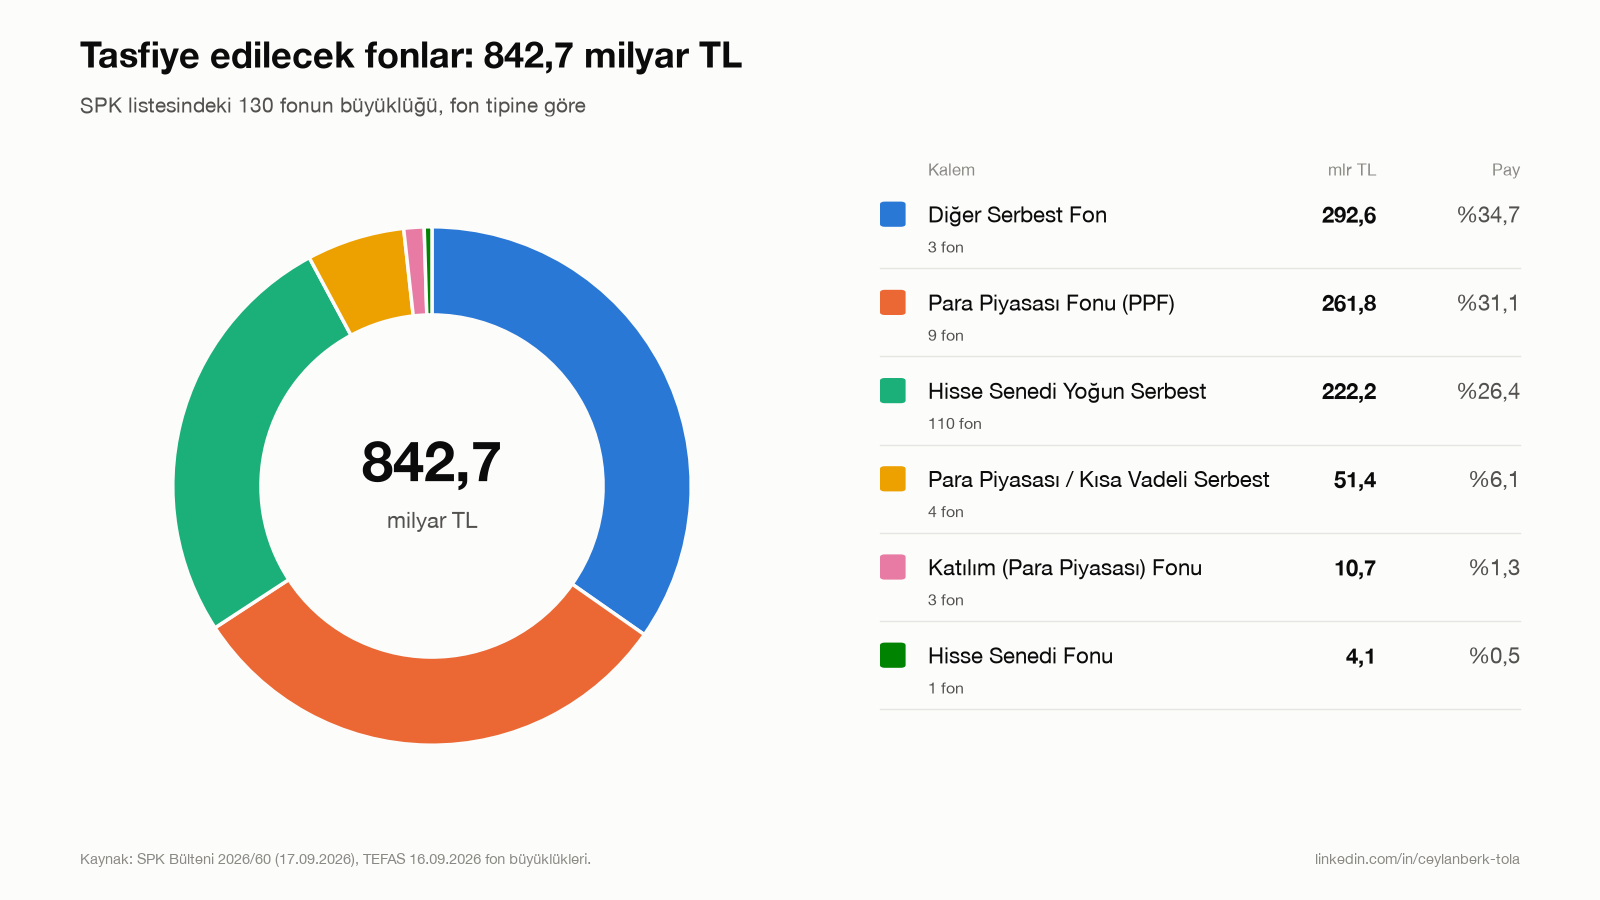
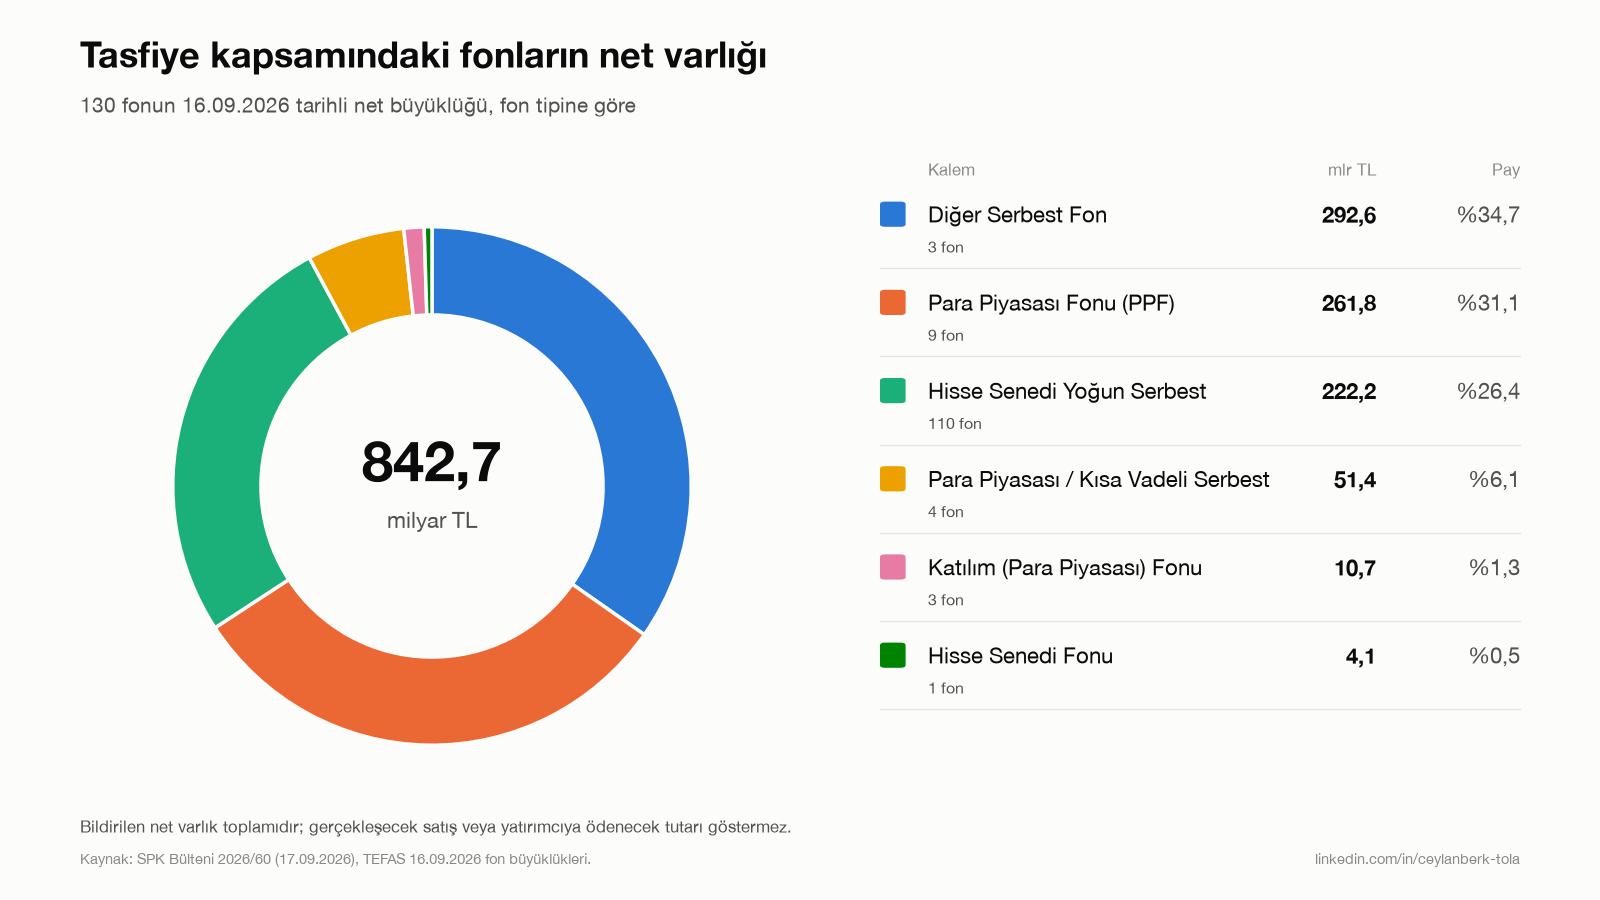
Scope notes

Changed region(s): [[0.0312, 0.0311, 0.5, 0.1244], [0.0625, 0.9022, 0.5, 0.9333]]

diff --git a/tasfiye/report.py b/tasfiye/report.py
@@ -46,25 +46,32 @@ def bolum():
     bilinmeyen = fonlar_arasi.bilinmeyen()
     ilk_yayin, son_yayin = fonlar_arasi.yayin_araligi()
     parts = [
-        grafik(1, "1_fon_tipine_gore_tasfiye.png", "Fon tipine göre tasfiye tutarı"),
+        grafik(1, "1_fon_tipine_gore_tasfiye.png", "Fon tipine göre net fon büyüklüğü"),
         grup_tablosu("ozet_fon_tipi.csv", "Fon tipi"),
         "TEFAS şemsiye fon türüne göre:\n\n" + grup_tablosu("ozet_semsiye_fon_turu.csv", "Şemsiye fon türü"),
-        grafik(2, "2_varlik_turune_gore_tasfiye.png", "Varlık türüne göre tasfiye tutarı"),
-        "Fon büyüklüğü × TEFAS portföy dağılım oranı. Negatif tutarlar kaldıraçlı fonların repo ve para piyasası borçlarıdır; "
-        "net toplam fon büyüklüğüne eşittir.\n\n"
-        + tablo(["Varlık", "Brüt (mlr TL)", "Borç (mlr TL)", "Net (mlr TL)", "Net pay"],
+        grafik(2, "2_varlik_turune_gore_tasfiye.png", "Varlık türüne göre yaklaşık tutarlar"),
+        f"Tutarlar, TEFAS'ın {config.VERI_TARIHI} tarihli net fon büyüklüğü × aynı tarihli portföy dağılım oranıyla "
+        "hesaplanan yaklaşık TL karşılıklarıdır. Pozitif sütunu varlık sınıflarındaki pozitif kalemleri, negatif sütunu "
+        "dağılımdaki repo ve para piyasası borçlarını gösterir. Net toplam fon büyüklüğüne eşittir. "
+        "Bu hesap tam bir brüt bilanço, toplam kaldıraç riski veya gerçekleşecek satış tutarı değildir. "
+        "Grafikteki paylar pozitif toplam üzerinden, tablodaki net paylar net toplam üzerinden hesaplanır.\n\n"
+        + tablo(["Varlık", "Pozitif (mlr TL)", "Negatif (mlr TL)", "Net (mlr TL)", "Net pay"],
                 [[r["varlik"], mlr(r["brut_pozitif_tl"]), mlr(r["negatif_tl"]) if float(r["negatif_tl"]) else "",
                   mlr(r["net_tl"]), yuzde(r["net_tl"], net_toplam)] for r in varlik], "lrrrr"),
-        grafik(3, "3_portfoy_sirketine_gore_tasfiye.png", "Portföy şirketine göre tasfiye tutarı"),
+        grafik(3, "3_portfoy_sirketine_gore_tasfiye.png", "Portföy şirketine göre net fon büyüklüğü"),
         grup_tablosu("ozet_sirket.csv", "Portföy şirketi"),
-        "### Fonların listedeki diğer fonlara yatırımı\n\n"
-        "Toplamlardan düşülmemiştir; tutan ve tutulan fonun büyüklüğünde ayrı ayrı yer alır. Tutarlar, tutan fonun KAP'taki "
-        f"en güncel portföy dağılım raporundandır. KAP'ta güncel raporu bulunmayan ({bilinmeyen['rapor_yok'][0]} fon) veya rapor "
-        f"yayımlamaktan muaf olan ({bilinmeyen['muaf'][0]} fon) fonlar için bu bilgi bulunmamaktadır. "
-        f"Fon büyüklükleri TEFAS'ın {config.VERI_TARIHI} verisidir; KAP raporları ise {ilk_yayin}–{son_yayin} tarihleri arasında "
-        "yayımlandığı için tutarlar aynı güne ait değildir. "
+        "### Fonların listedeki diğer fonlara yatırımı (KAP, yaklaşık)\n\n"
+        "Tutarlar, tutan fonun eldeki en güncel KAP raporundaki oran × rapor net varlığı hesabıyla üretilmiştir. "
+        f"Ana hesaplamanın kaynağı TEFAS'ın {config.VERI_TARIHI} verisidir; KAP raporları ise eski dönemlere aittir ve "
+        f"{ilk_yayin}–{son_yayin} tarihleri arasında yayımlanmıştır. Bu nedenle aşağıdaki tutarlar "
+        f"**{config.VERI_TARIHI} için kesin veya bağlayıcı veri değil, fonlar arası yatırımı gösteren yaklaşık bir göstergedir.** "
+        "Tutan ve tutulan fonda mükerrer sayılabilecek bu yatırımlar toplamlardan düşülmemiştir. "
+        f"KAP raporu bulunamayan ({bilinmeyen['rapor_yok'][0]} fon) veya muafiyet bildirimi olan ({bilinmeyen['muaf'][0]} fon) "
+        "fonlar için bu bilgi bulunmamaktadır.\n\n"
+        "Tablodaki gün farkı yalnızca TEFAS veri tarihi ile KAP yayın tarihi arasındadır. "
+        "**Yayın tarihi portföyün değerleme tarihi değildir; 0 gün fark, pozisyonların aynı güne ait olduğunu göstermez.** "
         "50 mn TL altındaki kalemler için `fonlar_arasi_yatirim.csv` dosyasına bakın.\n\n"
-        + tablo(["Tutan fon", "Tutulan fon", "Tutar (mlr TL)", "KAP raporu (yayın tarihi)", f"TEFAS {config.VERI_TARIHI} ile fark"],
+        + tablo(["Tutan fon", "Tutulan fon", "Yaklaşık tutar (mlr TL)", "KAP raporu (yayın tarihi)", "TEFAS tarihi − KAP yayın tarihi"],
                 [[r["tutan_fon"], r["tutulan_fon"], f"{float(r['tutar_tl']) / 1e9:,.2f}".replace(".", ","),
                   f"{r['kap_rapor_donemi']} ({r['kap_yayin_tarihi']})", f"{r['tefas_verisiyle_gun_farki']} gün"]
                  for r in read_csv(fonlar_arasi.CIKTI) if float(r["tutar_tl"]) >= 5e7], "llrlr"),
@@ -84,7 +91,7 @@ def bolum():
             ["[`ozet_semsiye_fon_turu.csv`](data/processed/ozet_semsiye_fon_turu.csv)", "Şemsiye fon türüne göre özet"],
             ["[`ozet_sirket.csv`](data/processed/ozet_sirket.csv)", "Portföy şirketine göre özet"],
             ["[`ozet_varlik_dagilimi.csv`](data/processed/ozet_varlik_dagilimi.csv)", "Varlık türüne göre brüt, borç ve net TL"],
-            ["[`fonlar_arasi_yatirim.csv`](data/processed/fonlar_arasi_yatirim.csv)", "Fonların listedeki diğer fonlara yatırımı (son KAP raporları)"],
+            ["[`fonlar_arasi_yatirim.csv`](data/processed/fonlar_arasi_yatirim.csv)", "Fonların listedeki diğer fonlara yatırımı (eski dönem KAP raporlarından yaklaşık gösterge)"],
             ["[`kap_fon_paylari.csv`](data/raw/kap_fon_paylari.csv)", "KAP raporlarından çıkarılan ham fon payı oranları ve rapor durumu"],
         ], "ll"),
     ]

diff --git a/tasfiye/plots.py b/tasfiye/plots.py
@@ -1,4 +1,4 @@
-"""Üç donut grafik: fon tipi, varlık türü ve portföy şirketine göre tasfiye tutarı."""
+"""Tasfiye kapsamındaki fonların net büyüklüğü ve yaklaşık varlık dağılımı."""
 from collections import defaultdict
 
 import matplotlib
@@ -100,28 +100,28 @@ def main():
     ilk_yayin, son_yayin = fonlar_arasi.yayin_araligi()
 
     donut([(k, v, f"{n} fon") for k, (v, n) in grupla(detay, "fon_tipi")],
-          f"Tasfiye edilecek fonlar: {mlr(sum(r['portfoy_buyuklugu_tl'] for r in detay))} milyar TL",
-          f"SPK listesindeki {len(detay)} fonun büyüklüğü, fon tipine göre",
-          "1_fon_tipine_gore_tasfiye.png")
+          "Tasfiye kapsamındaki fonların net varlığı",
+          f"{len(detay)} fonun {config.VERI_TARIHI} tarihli net büyüklüğü, fon tipine göre",
+          "1_fon_tipine_gore_tasfiye.png",
+          footnote="Bildirilen net varlık toplamıdır; gerçekleşecek satış veya yatırımcıya ödenecek tutarı göstermez.")
 
     pos, neg, kaldiracli = varlik_tutarlari(detay, load_tefas_dagilim())
     brut, borc = sum(pos.values()), sum(neg.values())
     varliklar = [(g, sum(pos[k] for k in kodlar), VARLIK_ACIKLAMALARI.get(g, "")) for g, kodlar in VARLIK_GRUPLARI.items()]
     donut(sorted(varliklar, key=lambda t: -t[1]),
-          "Tasfiye edilecek varlıklar: türe göre",
-          f"Fon büyüklüğü × TEFAS portföy dağılım oranı, brüt {mlr(brut)} mlr TL varlık*",
+          "Tasfiye kapsamındaki fonların varlık dağılımı",
+          f"TEFAS {config.VERI_TARIHI}: net fon büyüklüğü × dağılım oranı, yaklaşık TL karşılıkları*",
           "2_varlik_turune_gore_tasfiye.png",
-          footnote=f"* Brüt tutardır: kaldıraçlı {len(kaldiracli)} fonun {mlr(-borc)} mlr TL repo ve para piyasası borcu "
-                   f"düşülmemiştir. Borç düşüldüğünde net varlık {mlr(brut + borc)} mlr TL (toplam fon büyüklüğü).\n"
-                   f"  Yatırım fonu katılma paylarının {mlr(ic_yatirim)} mlr TL'si, son KAP raporlarına göre listedeki diğer fonların paylarıdır "
-                   f"(raporların yayın tarihi {ilk_yayin[:5]}–{son_yayin}).",
-          source=f"Kaynak: SPK Bülteni 2026/60, TEFAS {config.VERI_TARIHI}, KAP portföy dağılım raporları. "
-                 "Hesaplama: fon büyüklüğü × TEFAS portföy dağılım oranı.")
+          footnote=f"* Pozitif kalemler {mlr(brut)} mlr TL; {len(kaldiracli)} fondaki {mlr(-borc)} mlr TL repo ve para piyasası borcu sonrası net {mlr(brut + borc)} mlr TL.\n"
+                   f"  Fonlar arası yatırım yaklaşık {mlr(ic_yatirim)} mlr TL (eski dönem KAP raporları; yayın {ilk_yayin[:5]}–{son_yayin}).\n"
+                   "  KAP tutarı aynı tarihli kesin veri değildir ve toplamdan düşülmemiştir. Dağılım, gerçekleşecek satış tutarını göstermez.",
+          source=f"Kaynak: SPK Bülteni 2026/60, TEFAS {config.VERI_TARIHI}; fonlar arası yatırım için KAP raporları.")
 
     donut([(f"{k} Portföy", v, f"{n} fon") for k, (v, n) in grupla(detay, "sirket")],
-          "Tasfiye tutarı: portföy şirketine göre",
-          "SPK listesindeki fonların büyüklüğü, kurucu portföy yönetim şirketine göre",
-          "3_portfoy_sirketine_gore_tasfiye.png")
+          "Net fon büyüklüğü: portföy şirketine göre",
+          f"Tasfiye kapsamındaki fonların {config.VERI_TARIHI} tarihli net büyüklükleri",
+          "3_portfoy_sirketine_gore_tasfiye.png",
+          footnote="Bildirilen net varlık toplamıdır; gerçekleşecek satış veya yatırımcıya ödenecek tutarı göstermez.")
 
 
 if __name__ == "__main__":

diff --git a/tasfiye/fonlar_arasi.py b/tasfiye/fonlar_arasi.py
@@ -1,7 +1,8 @@
 """Listedeki fonların birbirine yatırımı (bilgi amaçlı; toplamlardan düşülmez).
 
 Bir fon (ör. TLY) listedeki başka bir fonun (HMV) payını tutuyorsa o tutar iki fonun büyüklüğünde de yer alır.
-Tutarlar, tutan fonun KAP'taki en güncel portföy dağılım raporundaki değerlerdir (oran × rapor net varlığı).
+Tutarlar, eski dönem KAP raporlarındaki oran × rapor net varlığı hesabıyla elde edilen yaklaşık göstergelerdir.
+TEFAS veri tarihi için kesin tutarları göstermez; yayın tarihi ile portföyün değerleme tarihi farklı olabilir.
 """
 from collections import defaultdict
 from datetime import datetime
@@ -13,7 +14,7 @@ CIKTI = config.PROCESSED / "fonlar_arasi_yatirim.csv"
 
 
 def yatirimlar():
-    """Rapor yayımlayan fonların listedeki fonlara yatırımları, rapordaki TL tutarıyla, büyükten küçüğe."""
+    """KAP oranı × rapor net varlığından hesaplanan yaklaşık yatırımlar, büyükten küçüğe."""
     return sorted(({**r, "tutar_tl": float(r["oran"]) * float(r["rapor_net_varlik_tl"])}
                    for r in read_csv(config.KAP_FON_PAYLARI) if r["durum"] == "rapor" and r["tutulan_fon_kodu"]),
                   key=lambda r: -r["tutar_tl"])
@@ -54,7 +55,7 @@ def main():
                       "kap_rapor_donemi", "kap_yayin_tarihi", "tefas_verisiyle_gun_farki", "kap_bildirim_no"],
               [[r["fon_kodu"], r["tutulan_fon_kodu"], round(r["tutar_tl"], 2), r["rapor_net_varlik_tl"], r["oran"],
                 r["rapor_donemi"], r["yayin_tarihi"], gun_farki(r["yayin_tarihi"]), r["kap_bildirim_no"]] for r in rows])
-    print(f"Listedeki fonlara yatırım (son KAP raporları): {toplam() / 1e9:,.2f} mlr TL, {len(rows)} çift")
+    print(f"Listedeki fonlara yaklaşık yatırım (eski dönem KAP raporları): {toplam() / 1e9:,.2f} mlr TL, {len(rows)} çift")
     for durum, (adet, tl) in bilinmeyen().items():
         print(f"  içeriği bilinmeyen ({durum}): {adet} fon, {tl / 1e9:,.2f} mlr TL fon payı")
 

diff --git a/tasfiye/allocation.py b/tasfiye/allocation.py
@@ -1,4 +1,4 @@
-"""TEFAS portföy dağılımı × fon büyüklüğü: tasfiye edilecek varlıkların TL karşılığı."""
+"""TEFAS portföy dağılımı × net fon büyüklüğü: varlıkların yaklaşık TL karşılığı."""
 from collections import defaultdict
 
 from . import config
@@ -45,8 +45,9 @@ def main():
                 round(100 * (pos[k] + neg[k]) / net_toplam, 2)] for k in ozet])
 
     print(f"Dağılım verisi olan fon: {len(dagilim)} / {len(detay)}")
-    print(f"Brüt varlık: {sum(pos.values()) / 1e9:,.2f} mlr TL, borç: {sum(neg.values()) / 1e9:,.2f} mlr TL "
-          f"({len(kaldiracli)} kaldıraçlı fon), net: {net_toplam / 1e9:,.2f} mlr TL")
+    print(f"Dağılımdan hesaplanan yaklaşık pozitif tutar: {sum(pos.values()) / 1e9:,.2f} mlr TL, "
+          f"repo ve para piyasası borcu: {sum(neg.values()) / 1e9:,.2f} mlr TL "
+          f"({len(kaldiracli)} fon), net: {net_toplam / 1e9:,.2f} mlr TL")
 
 
 if __name__ == "__main__":

diff --git a/tasfiye/dataset.py b/tasfiye/dataset.py
@@ -58,7 +58,7 @@ def main():
                   [key, "fon_sayisi", "portfoy_buyuklugu_tl", "pay_yuzde", "yatirimci_sayisi"],
                   summarize(rows, key, total))
 
-    print(f"{len(rows)} fon, toplam tasfiye büyüklüğü: {total / 1e9:,.2f} mlr TL")
+    print(f"{len(rows)} fon, {config.VERI_TARIHI} tarihli toplam net fon varlığı: {total / 1e9:,.2f} mlr TL")
 
 
 if __name__ == "__main__":

diff --git a/README.md b/README.md
@@ -3,27 +3,31 @@
 SPK'nın 17.09.2026 tarihli 2026/60 sayılı bülteninde tasfiyesine karar verilen yatırım fonlarının analizi.
 Karar Tera, Pusula, Hedef, Atlas, A1 Capital, Pardus ve Bulls portföy şirketlerinin 130 fonunu kapsıyor.
 Fon büyüklükleri ve portföy dağılımları TEFAS'ın **16.09.2026** verisinden alındı.
+Çalışma, bu tarihteki net fon büyüklüklerini ve dağılım oranlarından hesaplanan yaklaşık varlık tutarlarını gösterir.
+Gerçekleşecek satış tutarı, tasfiye sonunda yatırımcıya ödenecek tutar veya piyasadaki satış baskısı tahmini değildir.
 
 ## Sonuçlar
 
 | | |
 |---|---|
 | Tasfiye edilecek fon | 130 |
-| Toplam fon büyüklüğü (net varlık) | **842,7 milyar TL** |
-| Brüt varlık | 883,0 milyar TL |
-| Kaldıraç borcu (32 fon) | 40,3 milyar TL |
-| Hisse senedi | 480,5 milyar TL |
-| Fonların listedeki diğer fonlara yatırımı* | 25,9 milyar TL |
+| Toplam net fon varlığı (16.09.2026) | **842,7 milyar TL** |
+| Dağılımdaki pozitif varlık kalemleri toplamı (yaklaşık) | 883,0 milyar TL |
+| Dağılımdaki repo ve para piyasası borcu (32 fon, yaklaşık) | 40,3 milyar TL |
+| Hisse senedi (dağılımdan hesaplanan, yaklaşık) | 480,5 milyar TL |
+| Fonların listedeki diğer fonlara yatırımı (KAP, yaklaşık)* | 25,9 milyar TL |
 
-\* Portföy raporu yayımlayan fonların son KAP raporlarına göre. Bu tutar hem tutan hem tutulan fonun büyüklüğünde yer alır,
-toplamdan düşülmemiştir. 18 fon rapor yayımlamaktan muaf, 15 fon KAP'a rapor yüklememiş; bunların fon payı içeriği bilinmiyor.
+\* Eski dönemlere ait KAP portföy raporlarındaki oran ve net varlık değerlerinden hesaplanan yaklaşık göstergedir;
+16.09.2026 itibarıyla kesin veya bağlayıcı bir fonlar arası yatırım tutarı değildir. Yayın tarihi, portföyün değerleme tarihiyle
+aynı olmayabilir. Bu nedenle tutar toplamdan düşülmemiştir. 18 fonda muafiyet bildirimi vardır, 15 fonda KAP raporu
+bulunamamıştır; bunların fon payı içeriği bilinmiyor.
 
 ## Çıktılar
 
 <!-- CIKTILAR:BASLA -->
-### 1. Fon tipine göre tasfiye tutarı
+### 1. Fon tipine göre net fon büyüklüğü
 
-![Fon tipine göre tasfiye tutarı](output/grafikler/1_fon_tipine_gore_tasfiye.png)
+![Fon tipine göre net fon büyüklüğü](output/grafikler/1_fon_tipine_gore_tasfiye.png)
 
 | Fon tipi | Fon | Büyüklük (mlr TL) | Pay | Yatırımcı* |
 |:---|---:|---:|---:|---:|
@@ -43,13 +47,13 @@ TEFAS şemsiye fon türüne göre:
 | Katılım Şemsiye Fonu | 3 | 10,7 | %1,3 | 21.335 |
 | Hisse Senedi Şemsiye Fonu | 1 | 4,1 | %0,5 | 31.609 |
 
-### 2. Varlık türüne göre tasfiye tutarı
+### 2. Varlık türüne göre yaklaşık tutarlar
 
-![Varlık türüne göre tasfiye tutarı](output/grafikler/2_varlik_turune_gore_tasfiye.png)
+![Varlık türüne göre yaklaşık tutarlar](output/grafikler/2_varlik_turune_gore_tasfiye.png)
 
-Fon büyüklüğü × TEFAS portföy dağılım oranı. Negatif tutarlar kaldıraçlı fonların repo ve para piyasası borçlarıdır; net toplam fon büyüklüğüne eşittir.
+Tutarlar, TEFAS'ın 16.09.2026 tarihli net fon büyüklüğü × aynı tarihli portföy dağılım oranıyla hesaplanan yaklaşık TL karşılıklarıdır. Pozitif sütunu varlık sınıflarındaki pozitif kalemleri, negatif sütunu dağılımdaki repo ve para piyasası borçlarını gösterir. Net toplam fon büyüklüğüne eşittir. Bu hesap tam bir brüt bilanço, toplam kaldıraç riski veya gerçekleşecek satış tutarı değildir. Grafikteki paylar pozitif toplam üzerinden, tablodaki net paylar net toplam üzerinden hesaplanır.
 
-| Varlık | Brüt (mlr TL) | Borç (mlr TL) | Net (mlr TL) | Net pay |
+| Varlık | Pozitif (mlr TL) | Negatif (mlr TL) | Net (mlr TL) | Net pay |
 |:---|---:|---:|---:|---:|
 | Hisse Senedi | 480,5 |  | 480,5 | %57,0 |
 | Ters-Repo | 172,7 |  | 172,7 | %20,5 |
@@ -72,9 +76,9 @@ Fon büyüklüğü × TEFAS portföy dağılım oranı. Negatif tutarlar kaldır
 | Hazine Bonosu | 0,0 |  | 0,0 | %0,0 |
 | Repo | 0,0 | -28,0 | -28,0 | −%3,3 |
 
-### 3. Portföy şirketine göre tasfiye tutarı
+### 3. Portföy şirketine göre net fon büyüklüğü
 
-![Portföy şirketine göre tasfiye tutarı](output/grafikler/3_portfoy_sirketine_gore_tasfiye.png)
+![Portföy şirketine göre net fon büyüklüğü](output/grafikler/3_portfoy_sirketine_gore_tasfiye.png)
 
 | Portföy şirketi | Fon | Büyüklük (mlr TL) | Pay | Yatırımcı* |
 |:---|---:|---:|---:|---:|
@@ -86,11 +90,13 @@ Fon büyüklüğü × TEFAS portföy dağılım oranı. Negatif tutarlar kaldır
 | Bulls | 15 | 11,4 | %1,3 | 5.636 |
 | A1 Capital | 9 | 2,4 | %0,3 | 1.540 |
 
-### Fonların listedeki diğer fonlara yatırımı
+### Fonların listedeki diğer fonlara yatırımı (KAP, yaklaşık)
 
-Toplamlardan düşülmemiştir; tutan ve tutulan fonun büyüklüğünde ayrı ayrı yer alır. Tutarlar, tutan fonun KAP'taki en güncel portföy dağılım raporundandır. KAP'ta güncel raporu bulunmayan (15 fon) veya rapor yayımlamaktan muaf olan (18 fon) fonlar için bu bilgi bulunmamaktadır. Fon büyüklükleri TEFAS'ın 16.09.2026 verisidir; KAP raporları ise 03.09.2026–16.09.2026 tarihleri arasında yayımlandığı için tutarlar aynı güne ait değildir. 50 mn TL altındaki kalemler için `fonlar_arasi_yatirim.csv` dosyasına bakın.
+Tutarlar, tutan fonun eldeki en güncel KAP raporundaki oran × rapor net varlığı hesabıyla üretilmiştir. Ana hesaplamanın kaynağı TEFAS'ın 16.09.2026 verisidir; KAP raporları ise eski dönemlere aittir ve 03.09.2026–16.09.2026 tarihleri arasında yayımlanmıştır. Bu nedenle aşağıdaki tutarlar **16.09.2026 için kesin veya bağlayıcı veri değil, fonlar arası yatırımı gösteren yaklaşık bir göstergedir.** Tutan ve tutulan fonda mükerrer sayılabilecek bu yatırımlar toplamlardan düşülmemiştir. KAP raporu bulunamayan (15 fon) veya muafiyet bildirimi olan (18 fon) fonlar için bu bilgi bulunmamaktadır.
 
-| Tutan fon | Tutulan fon | Tutar (mlr TL) | KAP raporu (yayın tarihi) | TEFAS 16.09.2026 ile fark |
+Tablodaki gün farkı yalnızca TEFAS veri tarihi ile KAP yayın tarihi arasındadır. **Yayın tarihi portföyün değerleme tarihi değildir; 0 gün fark, pozisyonların aynı güne ait olduğunu göstermez.** 50 mn TL altındaki kalemler için `fonlar_arasi_yatirim.csv` dosyasına bakın.
+
+| Tutan fon | Tutulan fon | Yaklaşık tutar (mlr TL) | KAP raporu (yayın tarihi) | TEFAS tarihi − KAP yayın tarihi |
 |:---|:---|---:|:---|---:|
 | TLY | HMV | 12,53 | 35. Hafta (09.09.2026) | 7 gün |
 | DFI | ABG | 10,18 | 36. Hafta (16.09.2026) | 0 gün |
@@ -129,7 +135,7 @@ Toplamlardan düşülmemiştir; tutan ve tutulan fonun büyüklüğünde ayrı a
 | [`ozet_semsiye_fon_turu.csv`](data/processed/ozet_semsiye_fon_turu.csv) | Şemsiye fon türüne göre özet |
 | [`ozet_sirket.csv`](data/processed/ozet_sirket.csv) | Portföy şirketine göre özet |
 | [`ozet_varlik_dagilimi.csv`](data/processed/ozet_varlik_dagilimi.csv) | Varlık türüne göre brüt, borç ve net TL |
-| [`fonlar_arasi_yatirim.csv`](data/processed/fonlar_arasi_yatirim.csv) | Fonların listedeki diğer fonlara yatırımı (son KAP raporları) |
+| [`fonlar_arasi_yatirim.csv`](data/processed/fonlar_arasi_yatirim.csv) | Fonların listedeki diğer fonlara yatırımı (eski dönem KAP raporlarından yaklaşık gösterge) |
 | [`kap_fon_paylari.csv`](data/raw/kap_fon_paylari.csv) | KAP raporlarından çıkarılan ham fon payı oranları ve rapor durumu |
 <!-- CIKTILAR:BITIS -->
 
@@ -166,10 +172,15 @@ PDF'ten fon listesini çıkarmak için `pdftotext` gerekir (`brew install popple
   Kod bu dosyaları okur, TEFAS'a bağlanmaz.
 - **Fon eşleştirme:** SPK listesindeki unvanlar TEFAS unvanlarıyla eşleştirildi. `tefas_genel` dosyası SPK listesindeki sıra numarasıyla bağlanır.
 - **Şemsiye fon türü**, fonun bağlı olduğu şemsiye fonun TEFAS kategorisidir. **Fon tipi** ise grafikler için şemsiye türü ve unvandan türetilen sınıflamadır.
-- **Kaldıraç:** Portföy dağılımında repo ve para piyasası borçları negatif yüzde olarak gelir.
-  Varlık grafiği brüt tutarı gösterir; borç düşülünce toplam, fon büyüklüğüne (842,7 mlr TL) eşitlenir.
+- **Hesaplama:** Varlık tutarları, TEFAS'ın 16.09.2026 tarihli net fon büyüklüğü ile aynı tarihli dağılım oranının
+  çarpılmasıyla hesaplanan yaklaşık TL karşılıklarıdır. Ana hesaplamada eski tarihli KAP dağılımları kullanılmaz.
+- **Pozitif ve negatif kalemler:** Portföy dağılımındaki repo ve para piyasası borçları negatif yüzde olarak gelir.
+  Varlık grafiği pozitif kalemlerin toplamını gösterir; negatif kalemler eklendiğinde net toplam 842,7 mlr TL olur.
+  Buradaki pozitif toplam tam bir brüt bilanço, negatif toplam ise tüm borç ve türev risklerinin ölçüsü değildir.
 - **Fonların birbirine yatırımı:** Bazı fonlar listedeki başka fonların payını tutuyor (ör. TLY → HMV, DFI → ABG, DOH → T3B).
   Hangi fonun payının tutulduğu TEFAS'ta yok; fon payı tutan 51 fonun KAP'taki en güncel portföy dağılım raporundan alındı.
-  Nitelikli yatırımcıya satılan fonlar rapor yayımlamaktan muaf (II-14.2 Tebliğ md. 19/2). Rapor tarihleri 16.09'dan farklı
-  olabildiği ve bazı fonların içeriği bilinmediği için bu tutar toplamlardan düşülmedi, bilgi olarak verildi.
+  Muafiyet bildirimleri ve bulunamayan raporlar nedeniyle bazı fonların içeriği bilinmiyor. Eski dönemlere ait raporlardaki
+  oran × rapor net varlığı hesabı, yalnızca fonlar arası yatırım için yaklaşık gösterge olarak kullanılır.
+  KAP yayın tarihi portföyün değerleme tarihi değildir; 16.09.2026 tarihinde yayımlanmış bir rapor da o günkü pozisyonları
+  göstermeyebilir. Bu tutarlar 16.09.2026 için kesin veya bağlayıcı değildir ve toplamlardan düşülmez.
 - `gsykb` alanının TEFAS arayüzünde etiketi yok; "Girişim Sermayesi Yatırım Fonu Katılma Payları" olarak yorumlandı (0,5 mlr TL).
